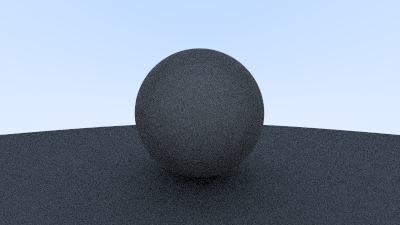
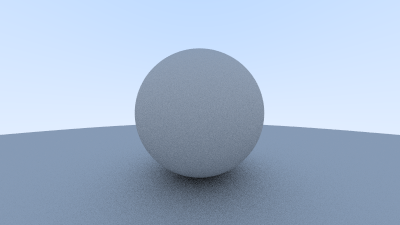
Fixed Shadow Acne

diff --git a/src/lib/Renderer.cpp b/src/lib/Renderer.cpp
@@ -26,7 +26,7 @@ ColorRGB PPMRenderer::GetRayColor(Ray ray, HittableList world, int depth) {
     if (depth <= 0)
         return ColorRGB(0, 0, 0);
 
-    if (world.Hit(ray, 0, Infinity, hitRecord)) {
+    if (world.Hit(ray, 0.001, Infinity, hitRecord)) {
         Point3 target = hitRecord.point + hitRecord.normal + RandomVectorInUnitSphere();
         return 0.5 * this->GetRayColor(
                 Ray(hitRecord.point, target - hitRecord.point),
